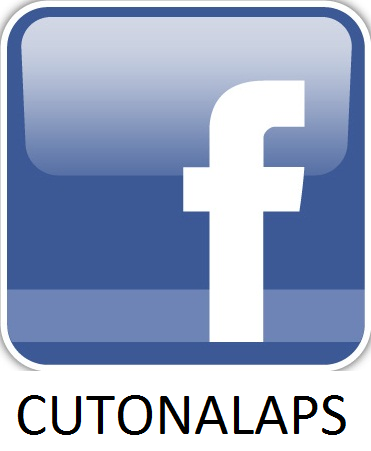
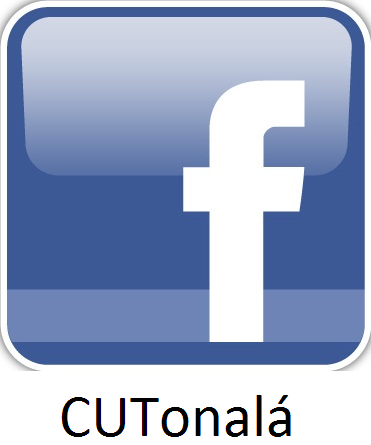
Cambio en el icono de facebook y twiter. Agregue el modulo de preguntas frecuentes, aun hacen falta algunos cambios. Correcion en sintaxis de algunos modulos que me di cuenta que estaban mal.

diff --git a/www/templates/PreguntasFrecuentes/PreguntasPrincipal.html b/www/templates/PreguntasFrecuentes/PreguntasPrincipal.html
@@ -1,0 +1,58 @@
+<ion-view view-title="Preguntas frecuentes">
+  <ion-content>    
+	<div class="card">
+		<div class="item item-divider">
+		Aquí se muestran las preguntas mas frecuentes acerca de CUTonalapps. Comunícate con nosotros si no encuentras tu respuesta aquí.
+		<!--<div class="list card">
+
+		<a href="#/app/browse" class="button icon-right ion-chevron-right ">
+			<i class="icon ion-wrench"></i>
+			Acerca de CUTonalapps
+		</a>
+
+		</div> -->
+		
+		<div class="list card">
+			<a class="item item-icon-left item-icon-right " href="#/app/Funciones">
+			<i class="icon ion-wrench"></i>
+				<p>¿Para qué sirve la aplicación?</p>
+			<i class="icon ion-chevron-right"></i>
+			</a>
+		</div>
+		
+		<div class="list card">
+			<a class="item item-icon-left item-icon-right " href="#/app/ErrorCuenta">
+			<i class="icon ion-wrench"></i>
+				<p>No puedo accesar con mi cuenta</p>
+			<i class="icon ion-chevron-right"></i>
+			</a>
+		</div>
+		
+		<div class="list card">
+			<a class="item item-icon-left item-icon-right " href="#/app/ErrorHorario">
+			<i class="icon ion-wrench"></i>
+				<p>No logro ver mi horario</p>
+			<i class="icon ion-chevron-right"></i>
+			</a>
+		</div>
+		
+		<div class="list card">
+			<a class="item item-icon-left item-icon-right " href="#/app/ErrorBiblioteca">
+			<i class="icon ion-wrench"></i>
+				<p>No encuentro el libro que necesito en la biblioteca virtual</p>
+			<i class="icon ion-chevron-right"></i>
+			</a>
+		</div>
+		
+		<div class="list card">
+			<a class="item item-icon-left item-icon-right " href="#/app/AcercaDe">
+			<i class="icon ion-wrench"></i>
+				<p>Acerca de CUTonalapps</p>
+			<i class="icon ion-chevron-right"></i>
+			</a>
+		</div>
+		
+		</div>
+	</div>	
+  </ion-content>
+</ion-view>

diff --git a/www/js/app.js b/www/js/app.js
@@ -159,11 +159,56 @@ angular.module('starter', ['ionic','ionic.service.core', 'starter.controllers'])
     }
   })
 
-  .state('app.browse', {
-      url: '/browse',
+  .state('app.AcercaDe', {
+      url: '/AcercaDe',
       views: {
         'menuContent': {
-          templateUrl: 'templates/browse.html'
+          templateUrl: 'templates/PreguntasFrecuentes/AcercaDe.html'
+        }
+      }
+    })
+	
+	.state('app.Funciones', {
+      url: '/Funciones',
+      views: {
+        'menuContent': {
+          templateUrl: 'templates/PreguntasFrecuentes/Funciones.html'
+        }
+      }
+    })
+	
+	.state('app.ErrorCuenta', {
+      url: '/ErrorCuenta',
+      views: {
+        'menuContent': {
+          templateUrl: 'templates/PreguntasFrecuentes/ErrorCuenta.html'
+        }
+      }
+    })
+	
+	.state('app.ErrorBiblioteca', {
+      url: '/ErrorBiblioteca',
+      views: {
+        'menuContent': {
+          templateUrl: 'templates/PreguntasFrecuentes/ErrorBiblioteca.html'
+        }
+      }
+    })
+	
+	.state('app.ErrorHorario', {
+      url: '/ErrorHorario',
+      views: {
+        'menuContent': {
+          templateUrl: 'templates/PreguntasFrecuentes/ErrorHorario.html'
+        }
+      }
+    })
+	
+	.state('app.PreguntasPrincipal', {
+      url: '/PreguntasPrincipal',
+      views: {
+        'menuContent': {
+          templateUrl: 'templates/PreguntasFrecuentes/PreguntasPrincipal.html'
         }
       }
     })

diff --git a/www/templates/PreguntasFrecuentes/Funciones.html b/www/templates/PreguntasFrecuentes/Funciones.html
@@ -1,0 +1,78 @@
+<ion-view view-title="Funciones de la aplicación">
+  <ion-content>    
+	<div class="card">
+		<div class="item item-divider">
+		Modulo de "Inicio"  					
+		</div>
+		
+			<p>
+			Este modulo sirve para...
+			</p>
+		
+		<div class="item item-divider">
+		Modulo de "Café"   					
+		</div>
+		
+			<p>
+			Este modulo sirve para...
+			</p>
+		
+		<div class="item item-divider">
+		Modulo de "Horario"  					
+		</div>
+		
+			<p>
+			Este modulo sirve para...
+			</p>
+		
+		<div class="item item-divider">
+		Modulo de "Biblioteca"   					
+		</div>
+		
+			<p >
+			Este modulo sirve para...
+			</p>
+		
+		<div class="item item-divider">
+		Modulo de "Noticias"   					
+		</div>
+		
+			<p>
+			Este modulo sirve para...
+			</p>
+		
+		<div class="item item-divider">
+		Modulo de "Como llegar"  					
+		</div>
+		
+			<p>
+			Este modulo sirve para...
+			</p>
+		
+		<div class="item item-divider">
+		Modulo de "Contacto"  					
+		</div>
+		
+			<p>
+			Este modulo sirve para...
+			</p>
+		
+		<div class="item item-divider">
+		Modulo de "Preguntas frecuentes"   					
+		</div>
+		
+			<p>
+			Este modulo sirve para...
+			</p>
+		
+		<div class="item item-divider">
+		Modulo de "Configuración" 					
+		</div>
+		
+			<p>
+			Este modulo sirve para...
+			</p>
+		
+	</div>	
+  </ion-content>
+</ion-view>

diff --git a/www/templates/PreguntasFrecuentes/ErrorBiblioteca.html b/www/templates/PreguntasFrecuentes/ErrorBiblioteca.html
@@ -1,0 +1,17 @@
+<ion-view view-title="No encuentro algun libro">
+  <ion-content>    
+	<div class="card">
+		<div class="item item-divider">
+		No encuentro el libro que necesito en la biblioteca virtual		
+		</div>
+		
+			<p>
+			La biblioteca virtual se encuentra constantemente actualizando, por lo 
+			cual, si no encuentras algun libro que estes buscando probablemente ya 
+			este prestado o posiblemente no esté en existencia en la biblioteca fisica. </br>
+			Acude directamente a la biblioteca fisica y pregunta para mayor información.
+			</p>
+		
+	</div>	
+  </ion-content>
+</ion-view>

diff --git a/www/templates/Programacion.html b/www/templates/Programacion.html
@@ -23,26 +23,5 @@
 
 
   <p align="center"> Bienvenido a la programación con C++, uno de los lenguajes de programación orientada a objetos más populares. Este libro utiliza las tecnologías de computación de vanguardia, y su base es el reconocido método de código activo de Deitel, donde los conceptos se presentan en el contexto de programas funcionales completos, seguidos de ejecuciones de ejemplo, en lugar de hacerlo a través de fragmentos separados de código.</p>
-
-
-
-
-
-
-
-
-
-
-
-
-
-
-
-
-
-
-
-
-
   </ion-content>
 </ion-view>

diff --git a/www/templates/menu.html b/www/templates/menu.html
@@ -44,8 +44,8 @@
           <ion-item menu-close href="#/app/contacto">
          <i class="ion-ios-telephone"></i> Contacto
        </ion-item>  
-        <ion-item menu-close href="#/app/browse">
-         <i class="icon ion-ios-people"></i> Acerca De 
+        <ion-item menu-close href="#/app/PreguntasPrincipal">
+         <i class="icon ion-ios-help"></i> Preguntas frecuentes
         </ion-item>
         <ion-item menu-close href="#/app/config">
          <i class="icon ion-gear-a"></i> Configuración 

diff --git a/www/templates/terceranoticia.html b/www/templates/terceranoticia.html
@@ -4,7 +4,7 @@
   <div class="item item-avatar">
     <img src="img/pablo.jpg">
     <h2>Noviembre 8 del 2015</h2>
-    <p>Por: Luis Daniel M.C. &nbsp;&nbsp;&nbsp;&nbsp;&nbsp;&nbsp;&nbsp;&nbsp;&nbsp;&nbsp;&nbsp;&nbsp;&nbsp;
+    <p>Por: Jose Pablo A.V. &nbsp;&nbsp;&nbsp;&nbsp;&nbsp;&nbsp;&nbsp;&nbsp;&nbsp;&nbsp;&nbsp;&nbsp;&nbsp;
     &nbsp;&nbsp;&nbsp;&nbsp;&nbsp;&nbsp;&nbsp;&nbsp;&nbsp;&nbsp;&nbsp;&nbsp;&nbsp;
     &nbsp;&nbsp;&nbsp;&nbsp;&nbsp;&nbsp;&nbsp;&nbsp;&nbsp;&nbsp;&nbsp;&nbsp;&nbsp;
     

diff --git a/www/templates/PreguntasFrecuentes/ErrorCuenta.html b/www/templates/PreguntasFrecuentes/ErrorCuenta.html
@@ -1,0 +1,16 @@
+<ion-view view-title="Error con la cuenta">
+  <ion-content>    
+	<div class="card">
+		<div class="item item-divider">
+		No puedo accesar con mi cuenta  					
+		</div>
+		
+			<p>
+			1.-Cerciorate de que tengas acceso a internet. </br>
+			2.-Revisa que estes ingresando correctamente tus datos nuevamente. </br>
+			3.-Si tu problema persiste acude directamente a control escolar para solucionar tu problema. </br>
+			</p>
+		
+	</div>	
+  </ion-content>
+</ion-view>

diff --git a/www/templates/PreguntasFrecuentes/AcercaDe.html b/www/templates/PreguntasFrecuentes/AcercaDe.html
@@ -23,12 +23,16 @@
 				<table border="1">
 					<tr>
 						<td> 
+							<a href="https://www.facebook.com/centrouniversitariodetonala?fref=ts">
 							<img src="img/Icono_Facebook.png" width="70px" height="70px" alt="Facebook">  
+							</a>
 							</br> 
 						</td>
 						
 						<td> 
+							<a href="https://twitter.com/Cutonala_udg">
 							<img src="img/twiter.jpeg" width="70px" height="70px" alt="Twiter">  
+							</a>
 							</br> 
 						</td>
 					</tr>								

diff --git a/www/templates/PreguntasFrecuentes/ErrorHorario.html b/www/templates/PreguntasFrecuentes/ErrorHorario.html
@@ -1,0 +1,16 @@
+<ion-view view-title="Error con el horario">
+  <ion-content>    
+	<div class="card">
+		<div class="item item-divider">
+		No logro ver mi horario			
+		</div>
+		
+			<p>
+			Recuerda que para poder visualizar tu horario es necesario que accedas con tu datos de SIIAU, 
+			si ya has ingresado con tu cuenta acude directamente con el administrador para que solucione 
+			tu problema.
+			</p>
+		
+	</div>	
+  </ion-content>
+</ion-view>

diff --git a/www/templates/contacto.html b/www/templates/contacto.html
@@ -4,13 +4,13 @@
 
 	<p>Puedes encontrarnos en nuestras redes sociales</p>
 <a href="https://www.facebook.com/centrouniversitariodetonala?fref=ts">
-<img width="48" height="48" src="img/Icono_Facebook.png">
+<img width="60" height="60" src="img/Icono_Facebook.png">
 
 
 </a>
 
 <a href="https://twitter.com/Cutonala_udg">
-<img width="48" height="48" src="img/twitter-icono.png">
+<img width="60" height="60" src="img/twiter.jpeg">
 
 </a>
 </div>
